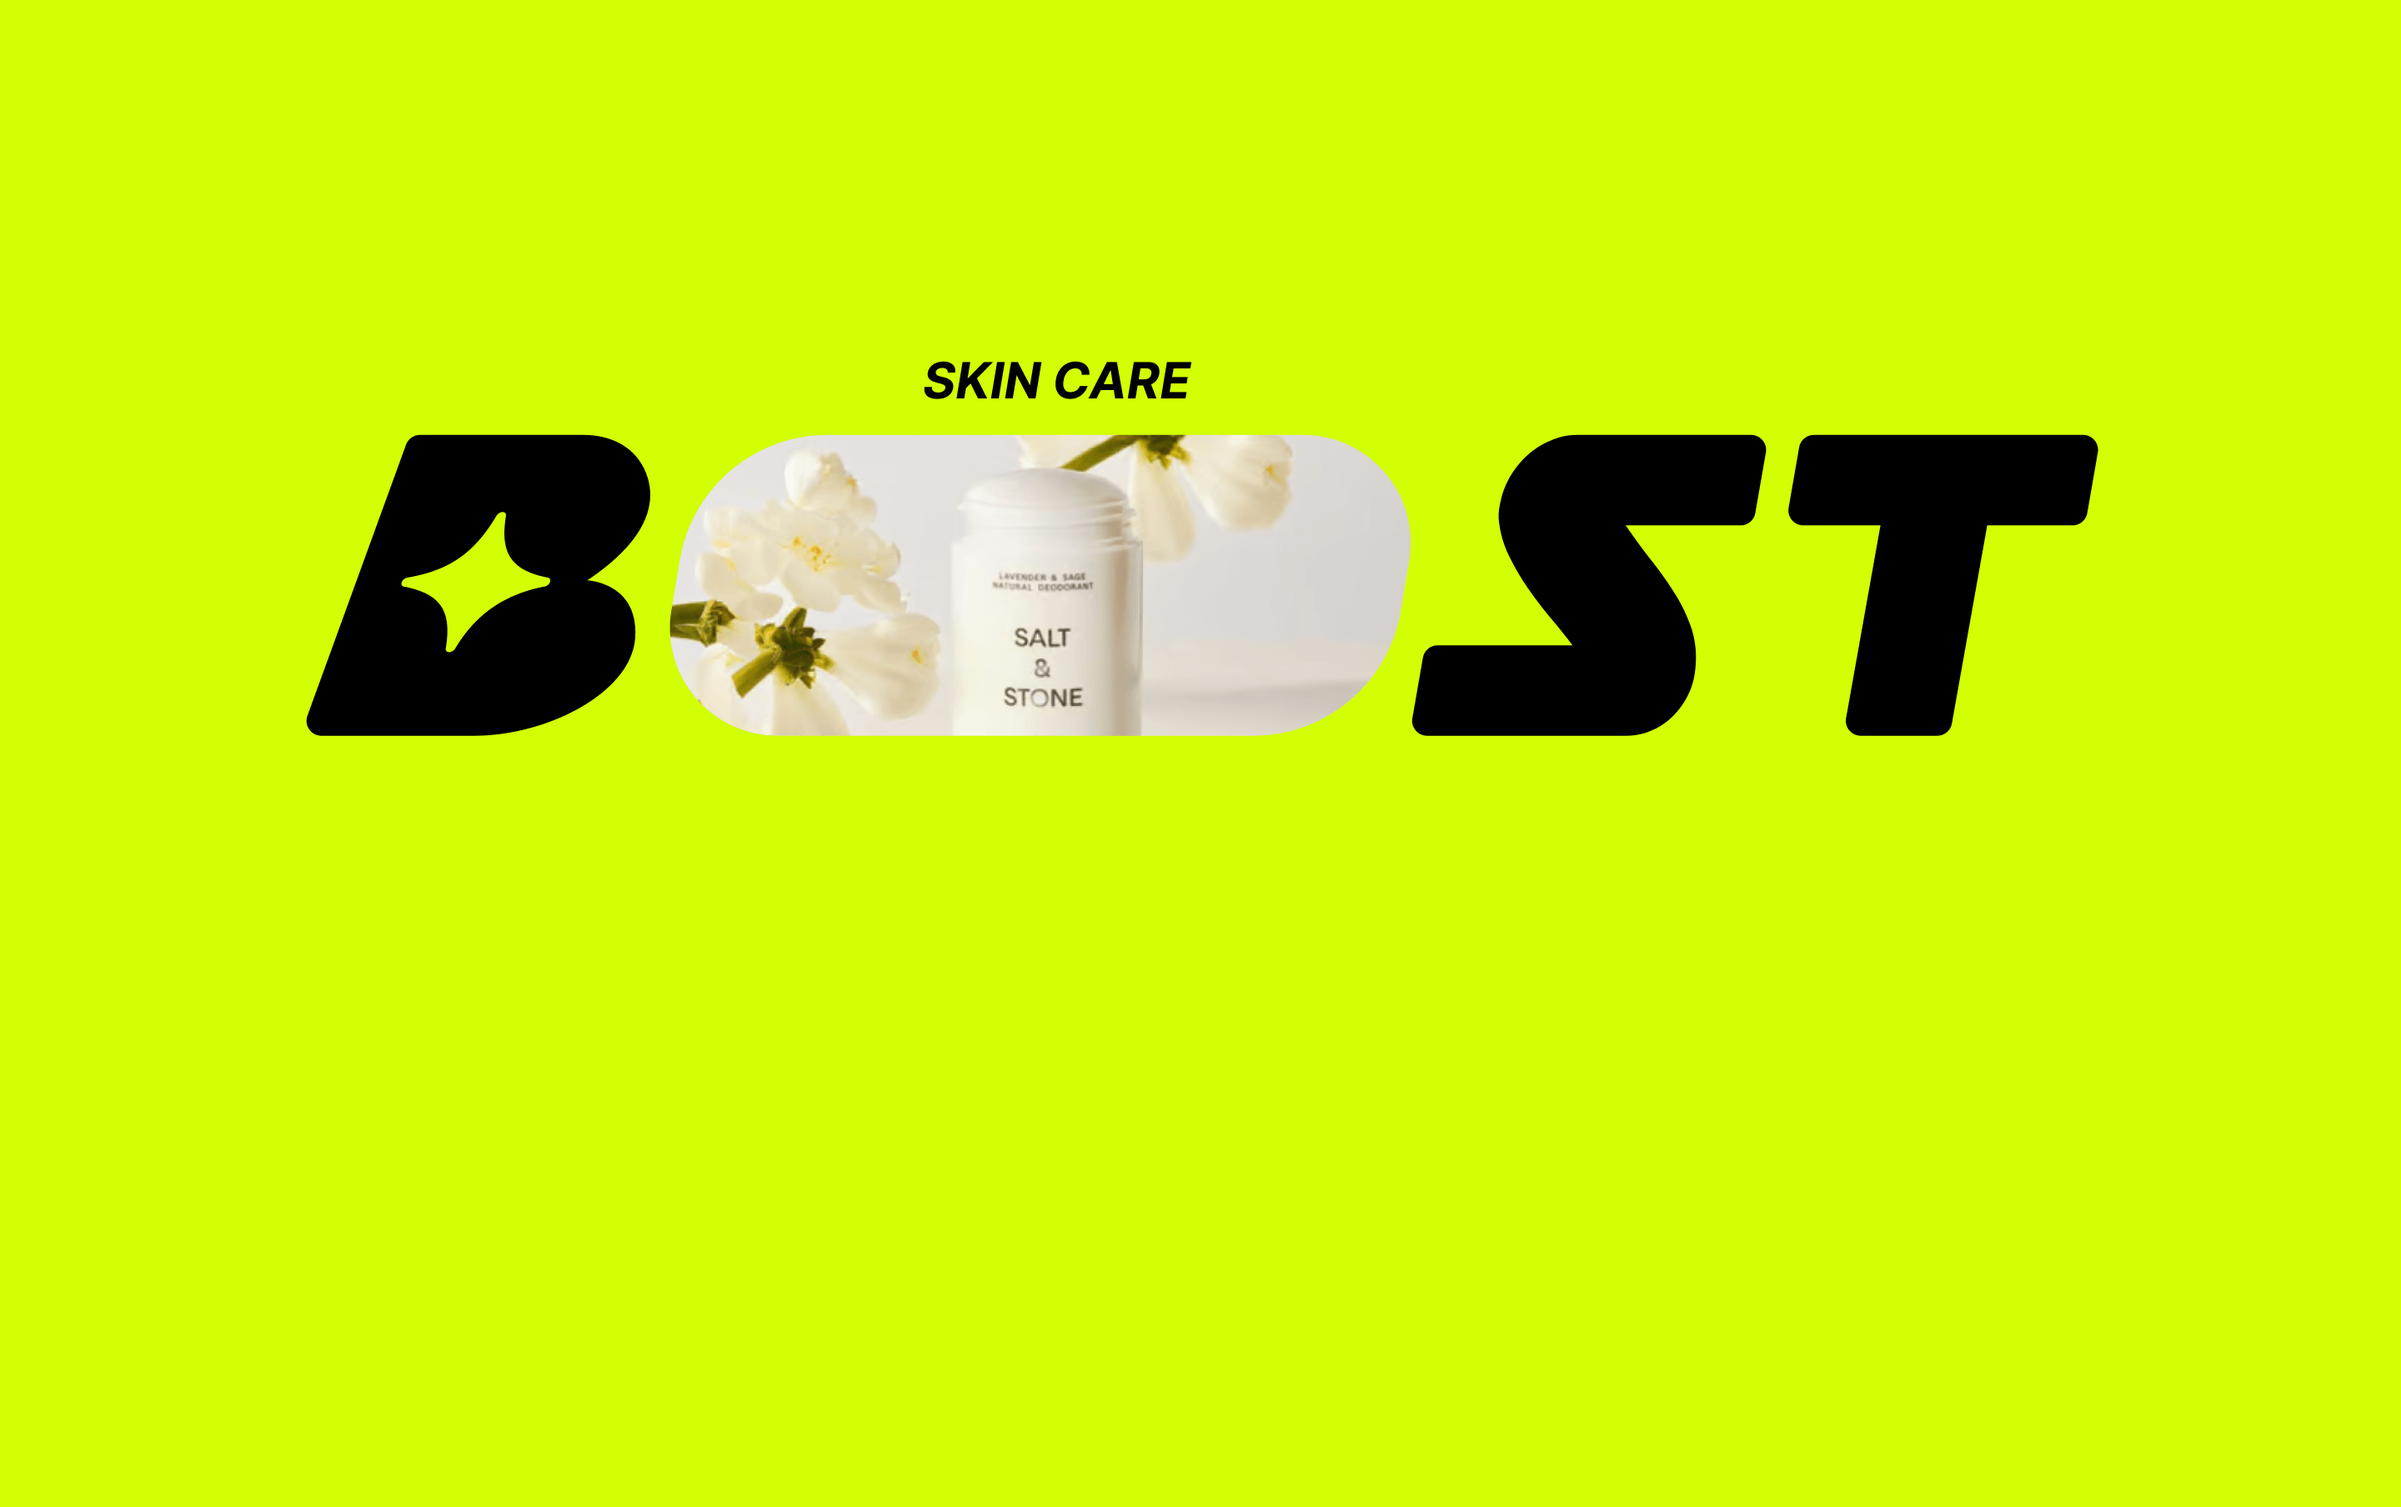
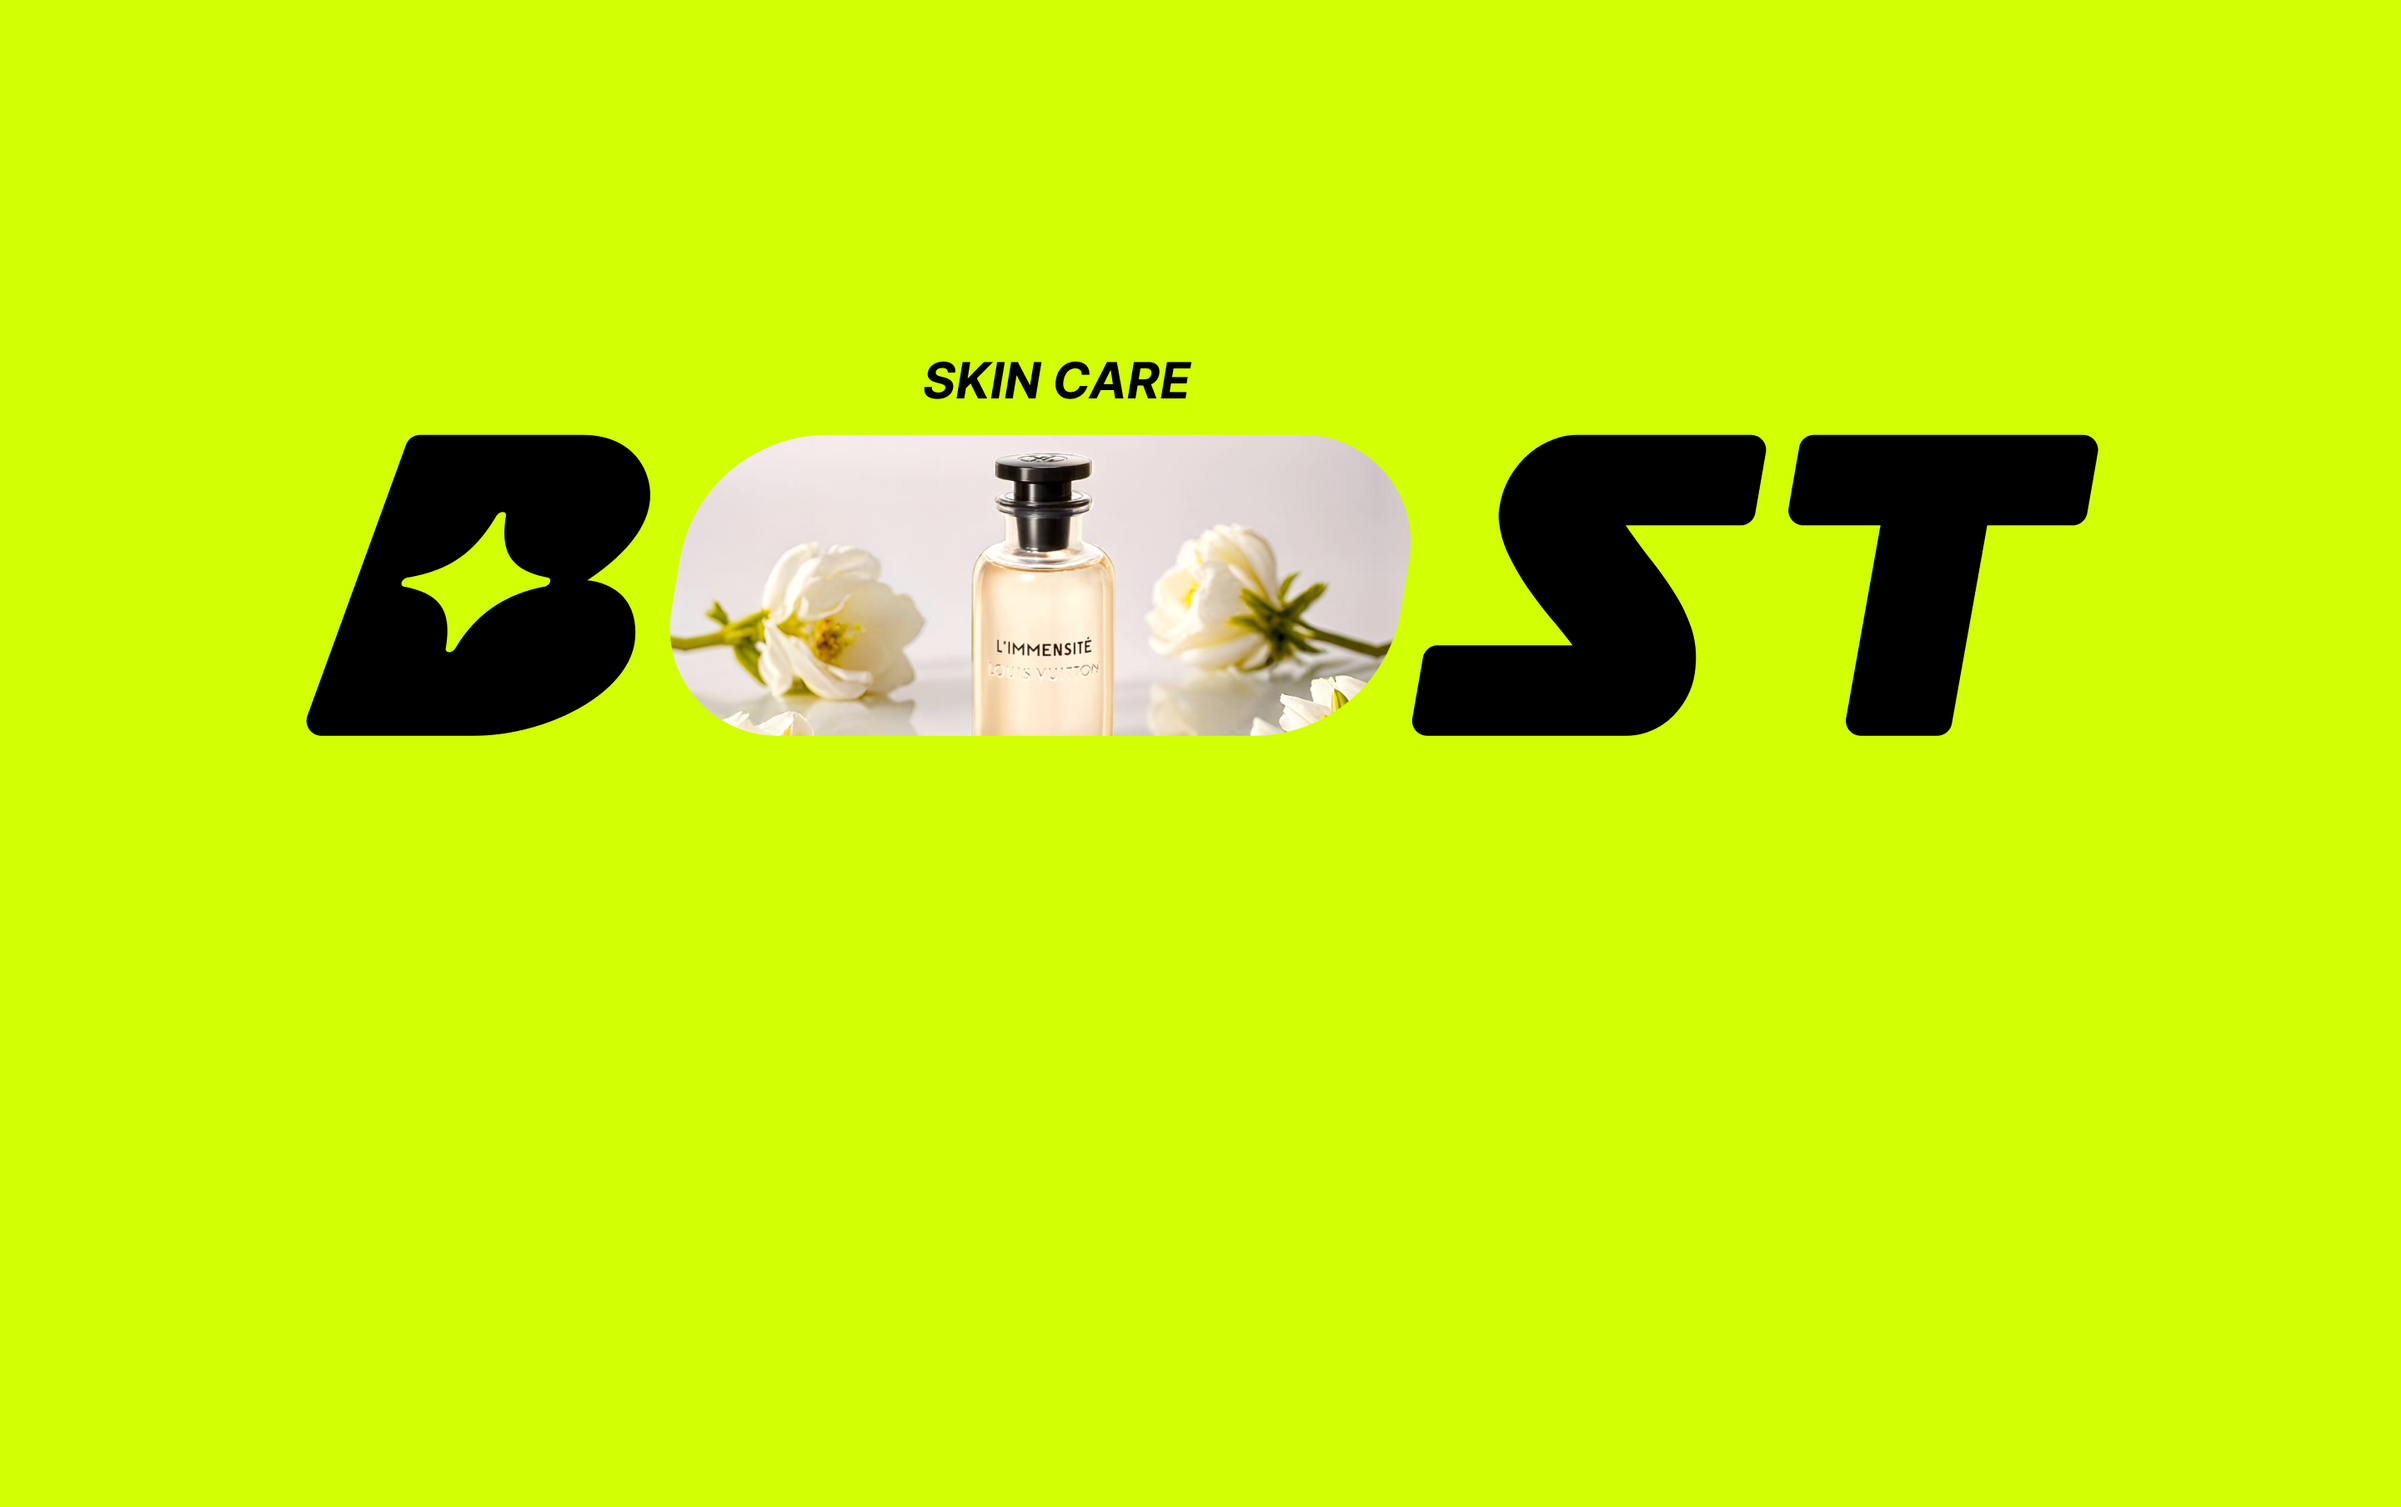
replace new pic and text
replace the picture and text of home page

Changed region(s): [[0.2812, 0.2788, 0.5938, 0.4956]]

diff --git a/app/page.tsx b/app/page.tsx
@@ -49,8 +49,8 @@ export default function Index(){
       </div>
       <div className="w-auto h-screen slideshow relative box-border">
         <div className={'absolute top-2/3 left-0 right-0 flex items-center justify-center'}>
-          <div className={'px-4 w-[540px] h-[37px]'}>
-            <div className={'f-bodoni text-4xl text-center'}>your productivity, efficiency, quality</div>
+          <div className={'px-4 w-[880px] h-[37px]'}>
+            <div className={'f-bodoni text-6xl text-center'}>your productivity, efficiency, quality</div>
             <div className={'text-2xl my-4 text-black text-center uppercase'}>With AI e-commerce Marketing tool</div>
             <Link href={'/home'} >
               <div className={'w-40 h-12 leading-none text-center mx-auto shrink-0 bg-black rounded-full text-white flex items-center justify-center'}>Try It Now</div>
@@ -110,21 +110,21 @@ export default function Index(){
         <div className={'flex justify-center items-center w-[1088px] mx-auto pt-6 pb-12'}>
           <div className={'mr-4'}>
             <div className={'text-[#D2FF04] text-8xl text-center f-bodoni'}>01</div>
-            <div className={'text-black text-2xl uppercase text-center'}>Select a</div>
-            <div className={'text-black text-2xl uppercase text-center'}>transparent image</div>
-            <div className={'text-black text-base text-center'}>Select the image from which you have removed the background.</div>
+            <div className={'text-black text-2xl uppercase text-center'}>UPLOAD</div>
+            <div className={'text-black text-2xl uppercase text-center'}>an image</div>
+            <div className={'text-black text-base text-center'}>Choose the image from your device and drag it into Boost.</div>
           </div>
           <div className={'mx-4'}>
             <div className={'text-[#D2FF04] text-8xl text-center f-bodoni'}>02</div>
-            <div className={'text-black text-2xl uppercase text-center'}>CHOOSE</div>
-            <div className={'text-black text-2xl uppercase text-center'}>A style and scence</div>
-            <div className={'text-black text-base text-center'}>Choose the style and scene that suits your product</div>
+            <div className={'text-black text-2xl uppercase text-center'}>Remove</div>
+            <div className={'text-black text-2xl uppercase text-center'}>Background</div>
+            <div className={'text-black text-base text-center'}>Boost will eliminate the background in just a few seconds.</div>
           </div>
           <div className={'ml-4'}>
             <div className={'text-[#D2FF04] text-8xl text-center f-bodoni'}>03</div>
             <div className={'text-black text-2xl uppercase text-center'}>Create</div>
             <div className={'text-black text-2xl uppercase text-center'}>Image with AI</div>
-            <div className={'text-black text-base text-center'}>Boots Create photos with perfect lighting, reflections and shadows</div>
+            <div className={'text-black text-base text-center'}>Boost creates backgrounds with ideal lighting, reflections, and shadows.</div>
           </div>
         </div>
         <div className={'pb-24'}>
